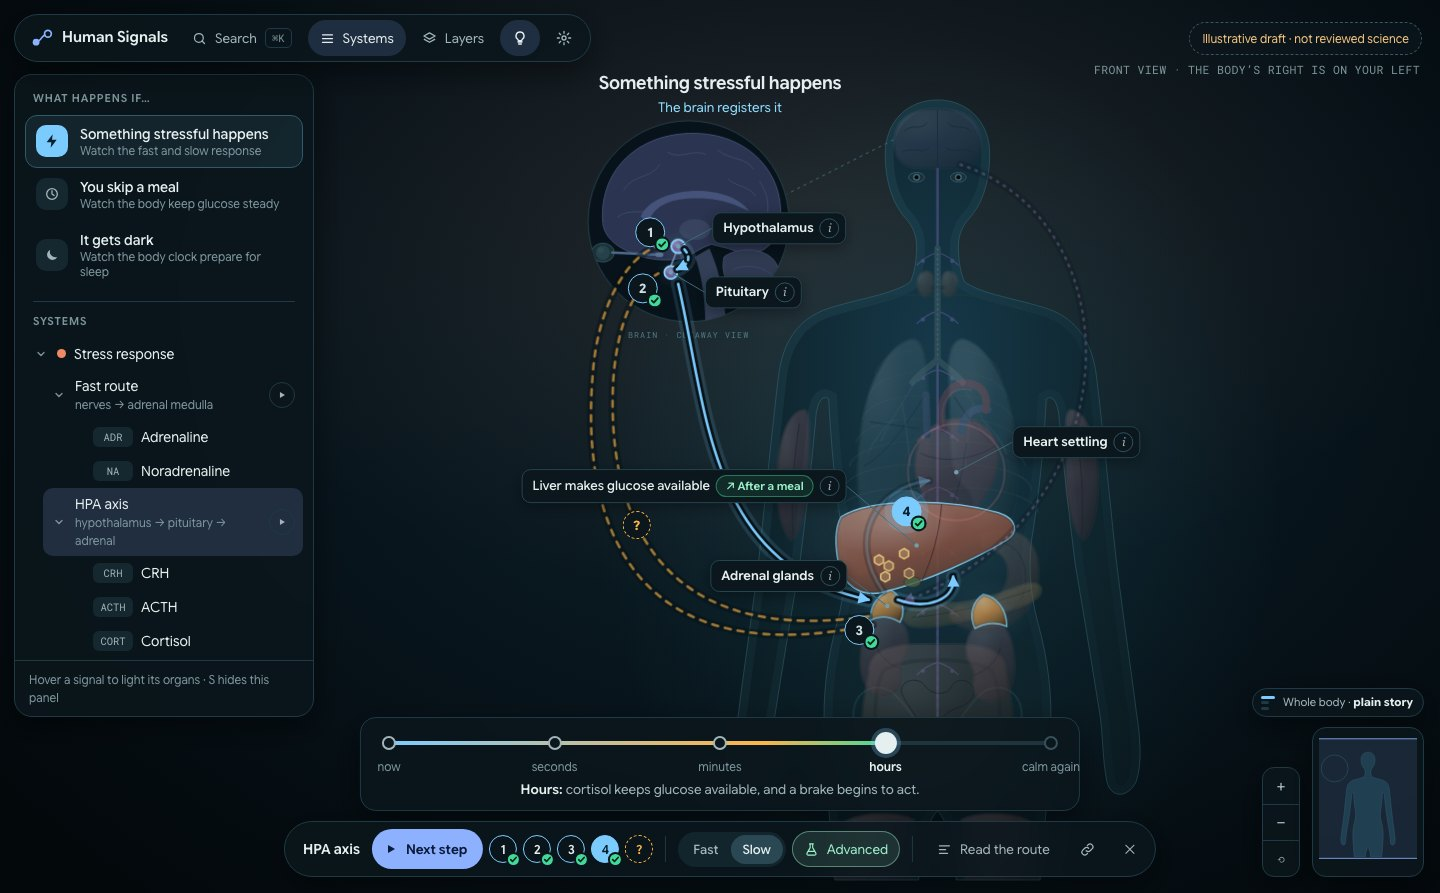
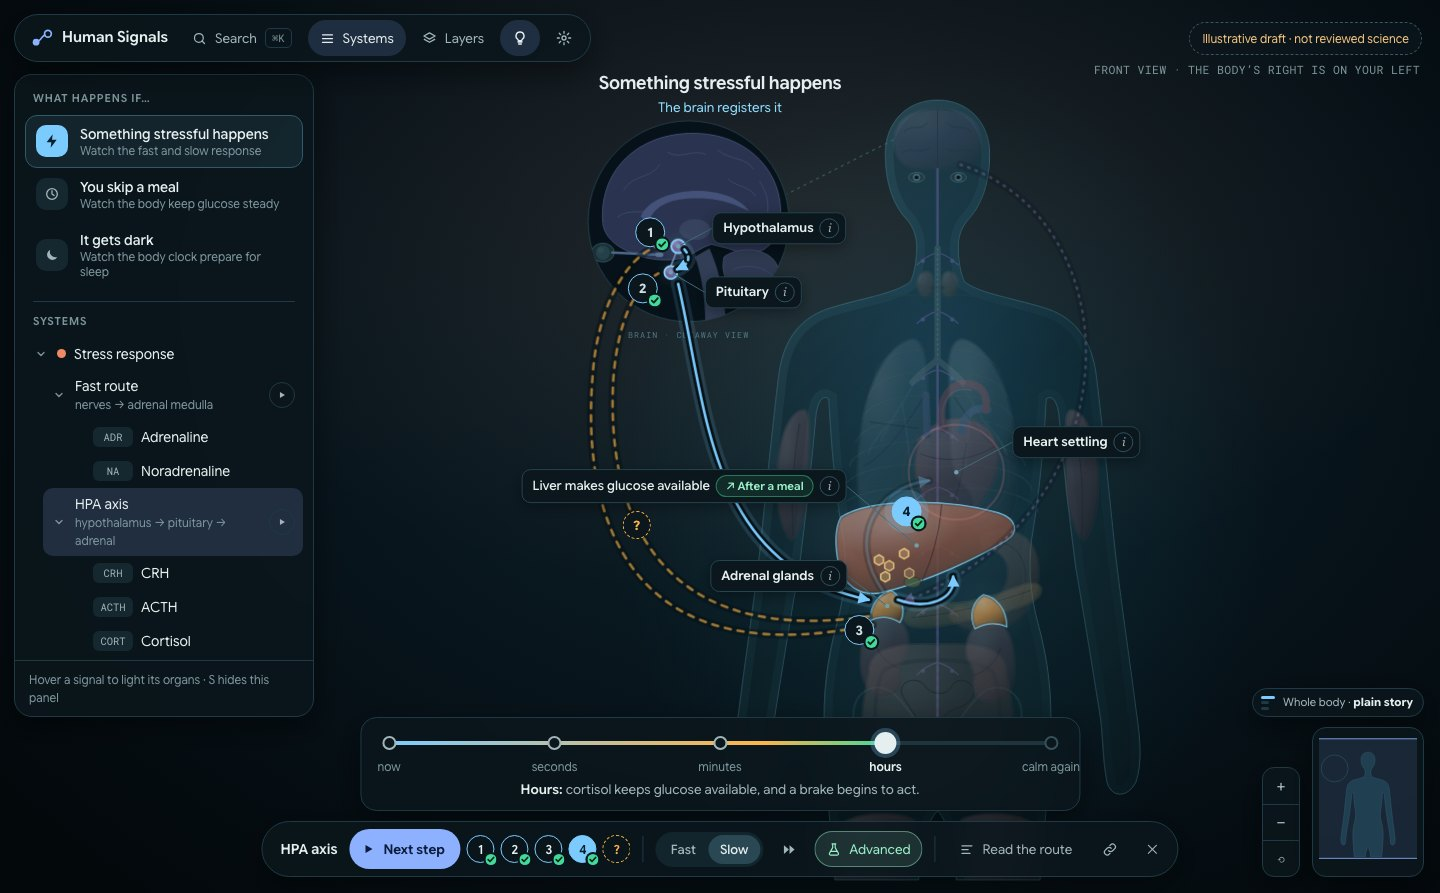
feat(v4): B1 - play the whole response on one ribbon
Two-route scenes (stress, meal) get a "Watch it all" button in the
pathway bar that plays each route in turn across the shared time ribbon,
so the seconds-vs-hours contrast is felt end to end in guided mode - no
molecule classes, no table (that stays Advanced Compare). Reduced motion
steps it. A deliberate user action (Play, a dot, the route toggle, Exit)
ends the sequence; the hand-off tip is suppressed while it runs. Label
folds to the icon at <=1500 so the bar still fits.

Changed region(s): [[0.1875, 0.9071, 0.7812, 0.9978]]

diff --git a/prototypes/v4/js/engine.js b/prototypes/v4/js/engine.js
@@ -2,7 +2,7 @@
    gated feedback with Try it?, one What if?, and the cell inset. Everything scene-specific comes from HS.scenes[id]. */
 (function(HS){
 const $=HS.$, app=HS.app;
-const E=HS.E={scene:null,sceneId:null,state:'idle',route:null,cur:-1,playing:false,tIdx:0,tryMode:false,picks:new Set(),cellOpen:false,tryCtx:{exposed:false,why:false},whatIf:null,landed:new Set(),gate:true};
+const E=HS.E={scene:null,sceneId:null,state:'idle',route:null,cur:-1,playing:false,tIdx:0,tryMode:false,picks:new Set(),cellOpen:false,tryCtx:{exposed:false,why:false},whatIf:null,landed:new Set(),gate:true,playingAll:false};
 const visited={}, revealed={};
 const P=HS.pathway=()=>E.scene&&E.route?E.scene.pathways[E.route]:null;
 const key=(r=E.route)=>E.sceneId+':'+r;
@@ -138,7 +138,7 @@ function renderToggle(){
   $('#seg').innerHTML=opts.map(([r,l,s])=>`<button data-route="${r}" aria-pressed="false" aria-label="${l}"><span class="lg">${l}</span><span class="sm" aria-hidden="true">${s||l}</span></button>`).join('');
   $('#seg').setAttribute('aria-label',E.scene.toggle?E.scene.toggle.label:'Route'); $('#seg').hidden=opts.length<2;
 }
-$('#seg').addEventListener('click',e=>{ const b=e.target.closest('[data-route]'); if(!b) return; const p=P(); if(p&&p.afterPlay&&p.afterPlay.tip) HS.clearTip(p.afterPlay.tip.key); enterPathway(b.dataset.route,false); });
+$('#seg').addEventListener('click',e=>{ const b=e.target.closest('[data-route]'); if(!b) return; stopAll(); const p=P(); if(p&&p.afterPlay&&p.afterPlay.tip) HS.clearTip(p.afterPlay.tip.key); enterPathway(b.dataset.route,false); });
 function renderDots(){
   const p=P(), v=vis();
   let h=p.hots.map((x,i)=>`<button class="hdot${v.has(i)?' v':''}${i===E.cur?' cur':''}" data-h="${i}" aria-label="Go to step ${x.num}: ${x.one}">${x.num}</button>`).join('');
@@ -165,6 +165,7 @@ async function enterPathway(r,autoplay){
   if(E.timeRef!==TL()){ buildRibbon(); setTime(0); }
   if(p.minTime&&E.tIdx<p.minTime) setTime(p.minTime);
   $('#pName').textContent=p.name; $('#timeChip').textContent=p.chip;
+  $('#bAll').hidden=!(S.toggle&&S.toggle.options.length>=2);
   document.querySelectorAll('#seg [data-route]').forEach(b=>b.setAttribute('aria-pressed',b.dataset.route===r));
   $('#bottom').classList.remove('hidden');
   HS.setLayer('nervous',p.layer==='nervous');
@@ -183,7 +184,7 @@ HS.enterPathway=enterPathway;
 function stopPlay(){ if(E.playing){ E.playing=false; HS.cancelTravel(); setPlayUI(); } }
 HS.stopPlay=stopPlay;
 async function goHot(i,user){
-  const p=P(), h=p.hots[i]; if(user){ stopPlay(); closeTry(); }
+  const p=P(), h=p.hots[i]; if(user){ stopAll(); stopPlay(); closeTry(); }
   E.cur=i; vis().add(i); if(h.org) E.landed.add(h.org); renderDots(); HS.saveSoon(); HS.syncHash();
   const og=$('#o-'+h.org); if(og&&!HS.RM()){ og.classList.remove('arrive'); void og.getBoundingClientRect(); og.classList.add('arrive'); clearTimeout(og._arr); og._arr=setTimeout(()=>og.classList.remove('arrive'),950); }   // the organ answers once as the signal lands
   if(E.tIdx<h.t) setTime(h.t); else applySigns();   // re-couple this organ's sign even when the time index doesn't advance
@@ -215,8 +216,28 @@ function afterPlay(){
   const a=P().afterPlay; if(!a) return;
   if(a.whenHidden&&isRevealed()) return;
   if(a.time!=null) setTime(a.time);
-  if(a.tip) HS.tip(a.tip.key,a.tip.text,a.tip.pos);
+  if(a.tip&&!E.playingAll) HS.tip(a.tip.key,a.tip.text,a.tip.pos);   // no hand-off tip mid "Watch it all"
 }
+/* Watch the whole response: play each route in turn across the shared time ribbon (guided, no table) */
+function setAllUI(on){ const b=$('#bAll'); if(!b) return; b.setAttribute('aria-pressed',on); const l=b.querySelector('.lbl'); if(l) l.textContent=on?'Stop':'Watch it all'; }
+function stopAll(){ if(E.playingAll){ E.playingAll=false; setAllUI(false); } }   // a deliberate user action ends the auto sequence
+HS.stopAll=stopAll;
+async function playAll(){
+  const S=E.scene; if(!S||!S.toggle||S.toggle.options.length<2||(HS.RB&&HS.RB.active)||(HS.CMP&&HS.CMP.active)) return;
+  if(E.playingAll){ E.playingAll=false; stopPlay(); setAllUI(false); return; }
+  E.playingAll=true; setAllUI(true); HS.say('Watching the whole response, one route after another.');
+  for(const opt of S.toggle.options){
+    if(!E.playingAll) break;
+    await enterPathway(opt[0],false); if(!E.playingAll) break;
+    const p=P();
+    if(HS.RM()){ for(let i=0;i<p.hots.length;i++){ if(!E.playingAll) break; await HS.camTo(p.region,0); goHot(i,false); await HS.sleep(520); } }
+    else { E.cur=-1; await play(); }
+    if(!E.playingAll) break;
+    await HS.sleep(750);
+  }
+  E.playingAll=false; setAllUI(false);
+}
+HS.playAll=playAll;
 
 /* ---------- Try it? ---------- */
 function openTry(){

diff --git a/prototypes/v4/index.html b/prototypes/v4/index.html
@@ -80,6 +80,7 @@
       <div class="dots" id="dots"></div>
       <span class="sep"></span>
       <div class="seg" id="seg" role="group" aria-label="Route"></div>
+      <button class="tb" id="bAll" hidden aria-pressed="false" title="Watch the whole response across the time ribbon"><svg width="15" height="15" viewBox="0 0 24 24" aria-hidden="true"><path d="M4 5l8 7-8 7zM13 5l8 7-8 7z" fill="currentColor"/></svg><span class="lbl">Watch it all</span></button>
       <span class="chip" id="timeChip"></span>
       <button class="tb adv" id="bAdv" aria-pressed="false" aria-haspopup="dialog" aria-expanded="false" title="Advanced · A toggles the mode"><svg width="15" height="15" viewBox="0 0 24 24" aria-hidden="true"><path d="M9 3h6M10 3v6l-5.2 9.2A2 2 0 0 0 6.5 21h11a2 2 0 0 0 1.7-2.8L14 9V3M7.5 15h9" fill="none" stroke="currentColor" stroke-width="1.8" stroke-linecap="round" stroke-linejoin="round"/></svg><span class="lbl">Advanced</span></button>
       <button class="tb whatif" id="bWhat" hidden>What if?</button>

diff --git a/prototypes/v4/js/app.js b/prototypes/v4/js/app.js
@@ -9,9 +9,10 @@ HS.onLevel=L=>{
   HS.renderOverlay();
 };
 
-$('#bPlay').addEventListener('click',()=>HS.play());
+$('#bPlay').addEventListener('click',()=>{ HS.stopAll&&HS.stopAll(); HS.play(); });
+$('#bAll').addEventListener('click',()=>HS.playAll());
 $('#bRead').addEventListener('click',()=>HS.openRead());
-$('#bExit').addEventListener('click',()=>HS.leave());
+$('#bExit').addEventListener('click',()=>{ HS.stopAll&&HS.stopAll(); HS.leave(); });
 $('#bWhat').addEventListener('click',()=>HS.openWhatIf());
 $('#bSearch').addEventListener('click',()=>HS.openSearch());
 $('#bSystems').addEventListener('click',()=>{ const p=$('#panel'); p.classList.toggle('closed'); $('#bSystems').setAttribute('aria-pressed',!p.classList.contains('closed')); HS.camTo(HS.cam.region||'body',450); });

diff --git a/prototypes/v4/css/app.css b/prototypes/v4/css/app.css
@@ -363,7 +363,7 @@ button{font-family:inherit;color:inherit}
 @keyframes orgin{from{opacity:0;translate:0 8px}}
 .rm .lab,.rm .hs,.rm .org.arrive .halo,.rm.intro #world,.rm.intro .org{animation:none}
 .ribbon{width:min(720px,calc(100vw - 300px))}
-@media (max-width:1500px){ .pbar .chip:not(.done){display:none} }
+@media (max-width:1500px){ .pbar .chip:not(.done){display:none} #bAll .lbl{display:none} }
 @media (max-width:1400px){ #bRead .lbl{display:none} }
 @media (max-width:1180px){ .pbar .nm{display:none} #playTxt{display:none} .playbtn{padding:0 13px} .seg .lg{display:none} .seg .sm{display:inline} }
 @media (max-width:1400px){
